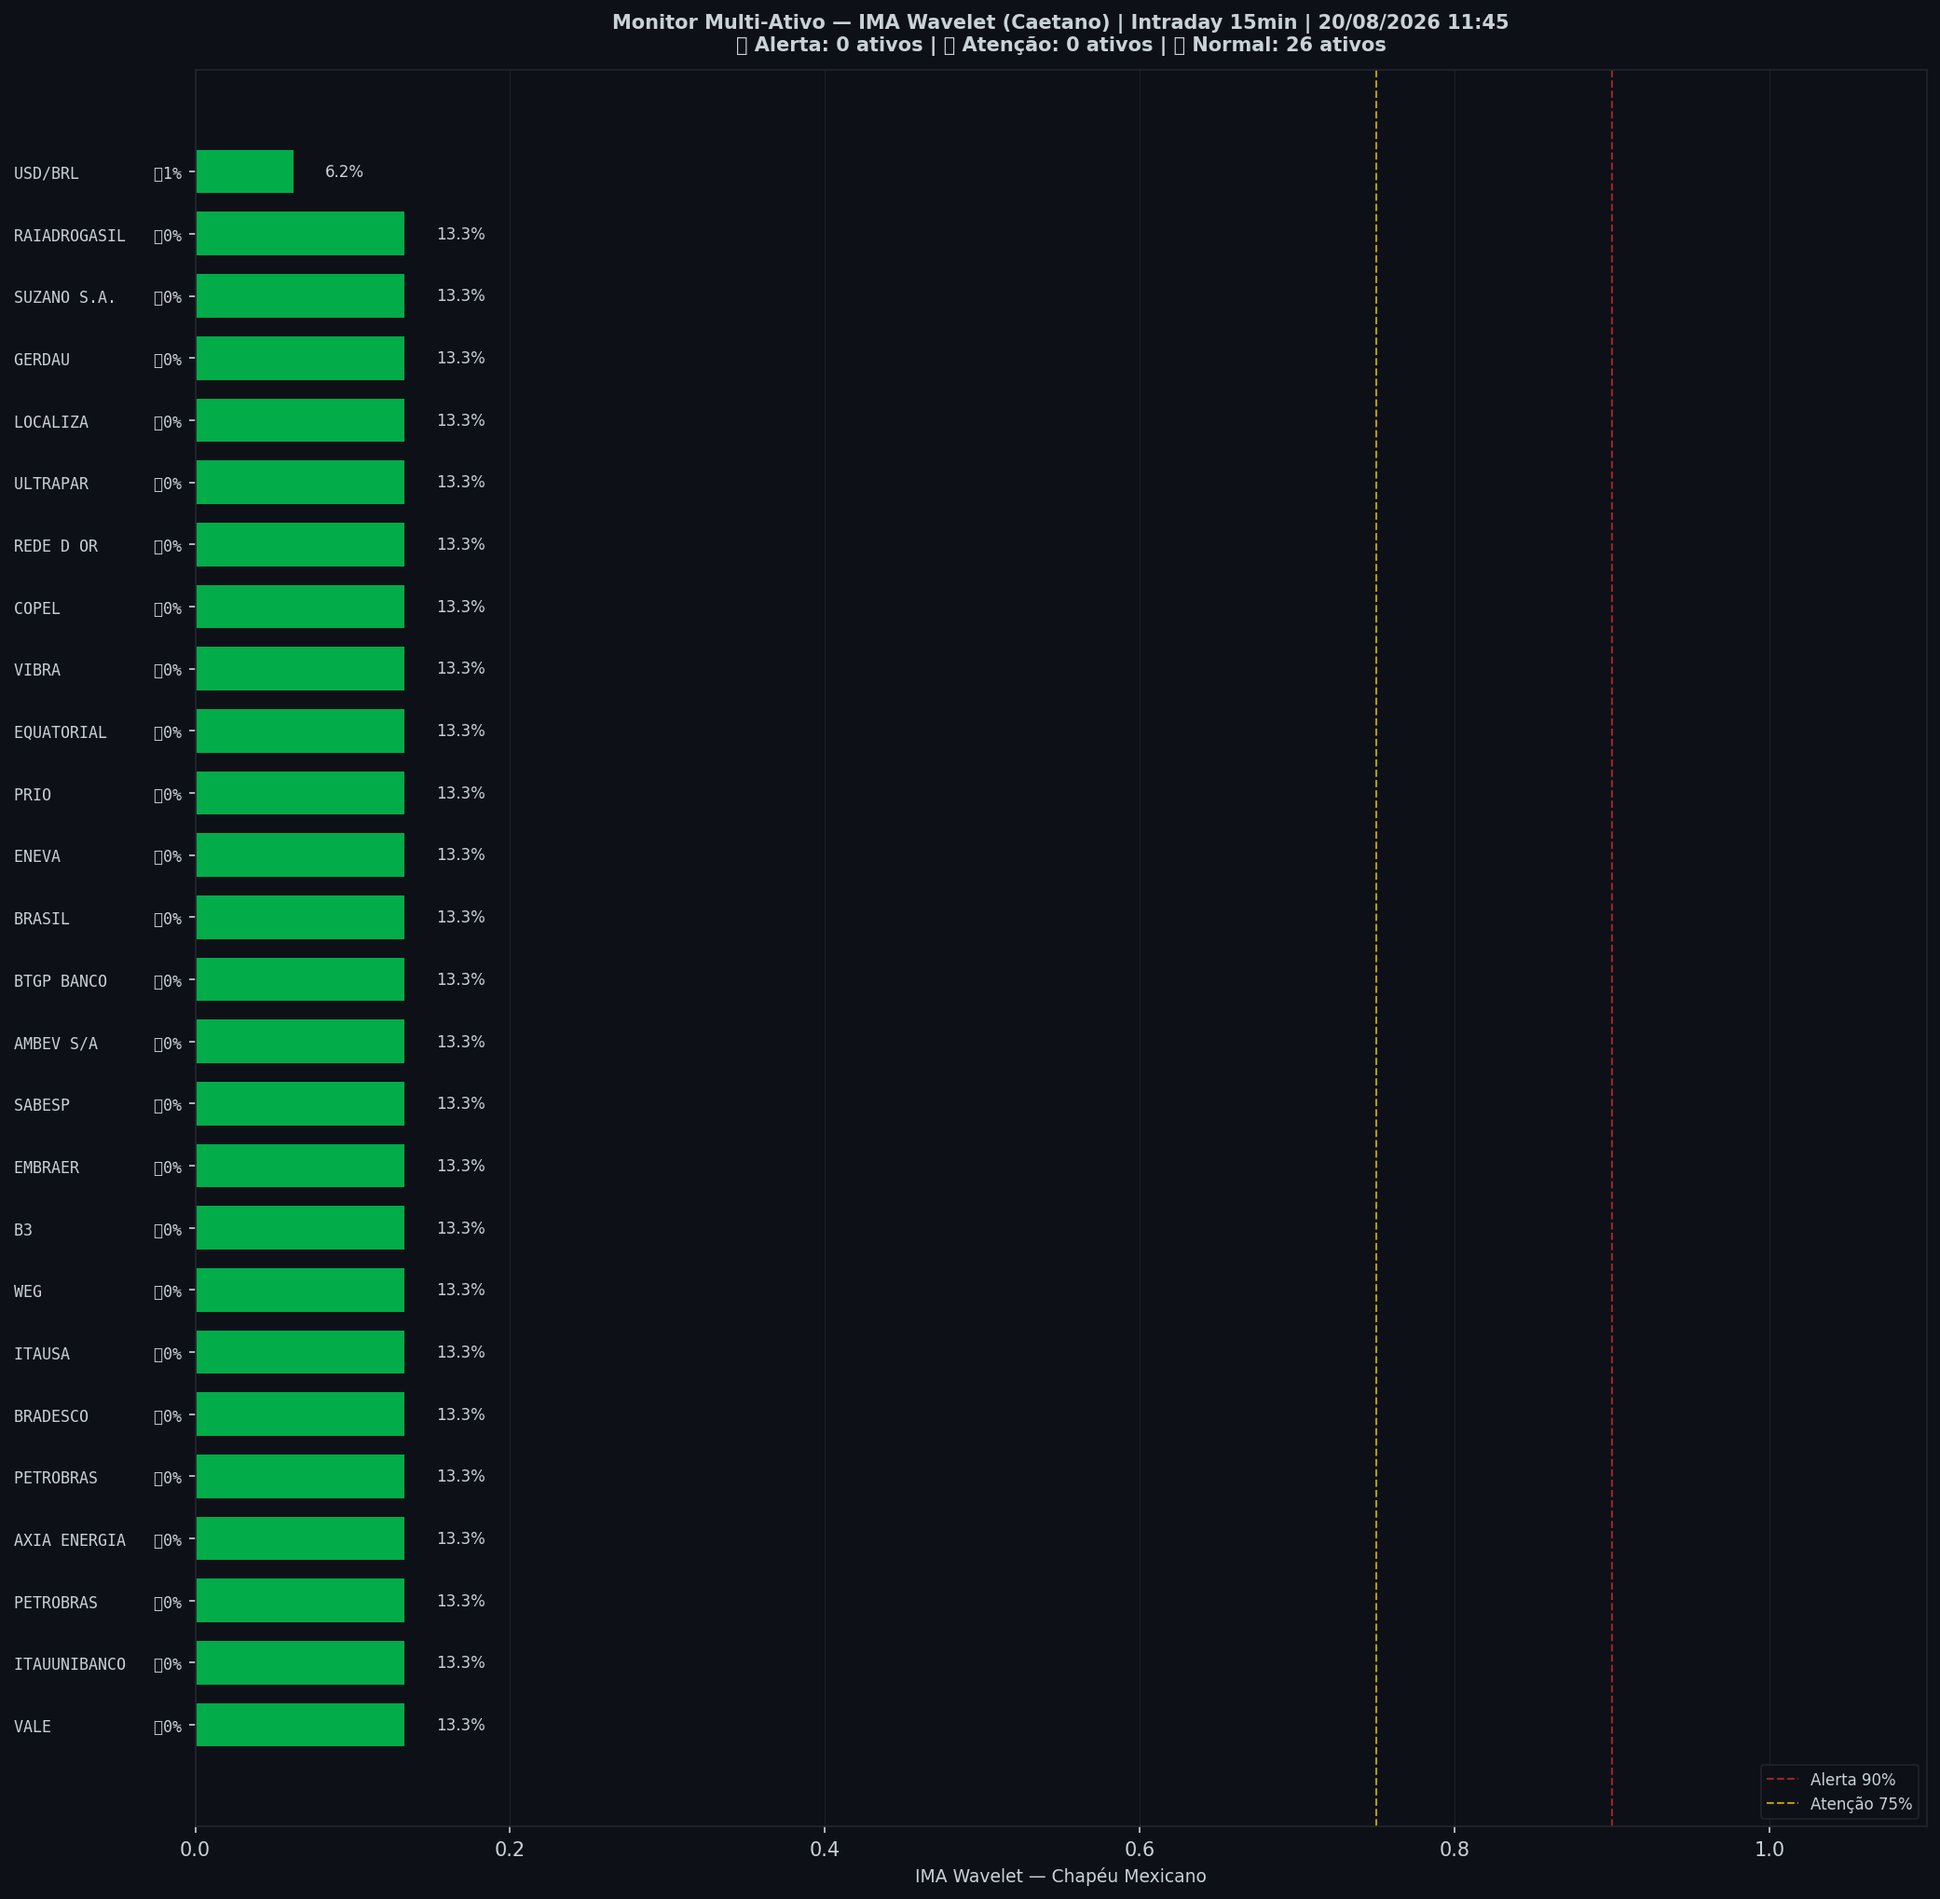
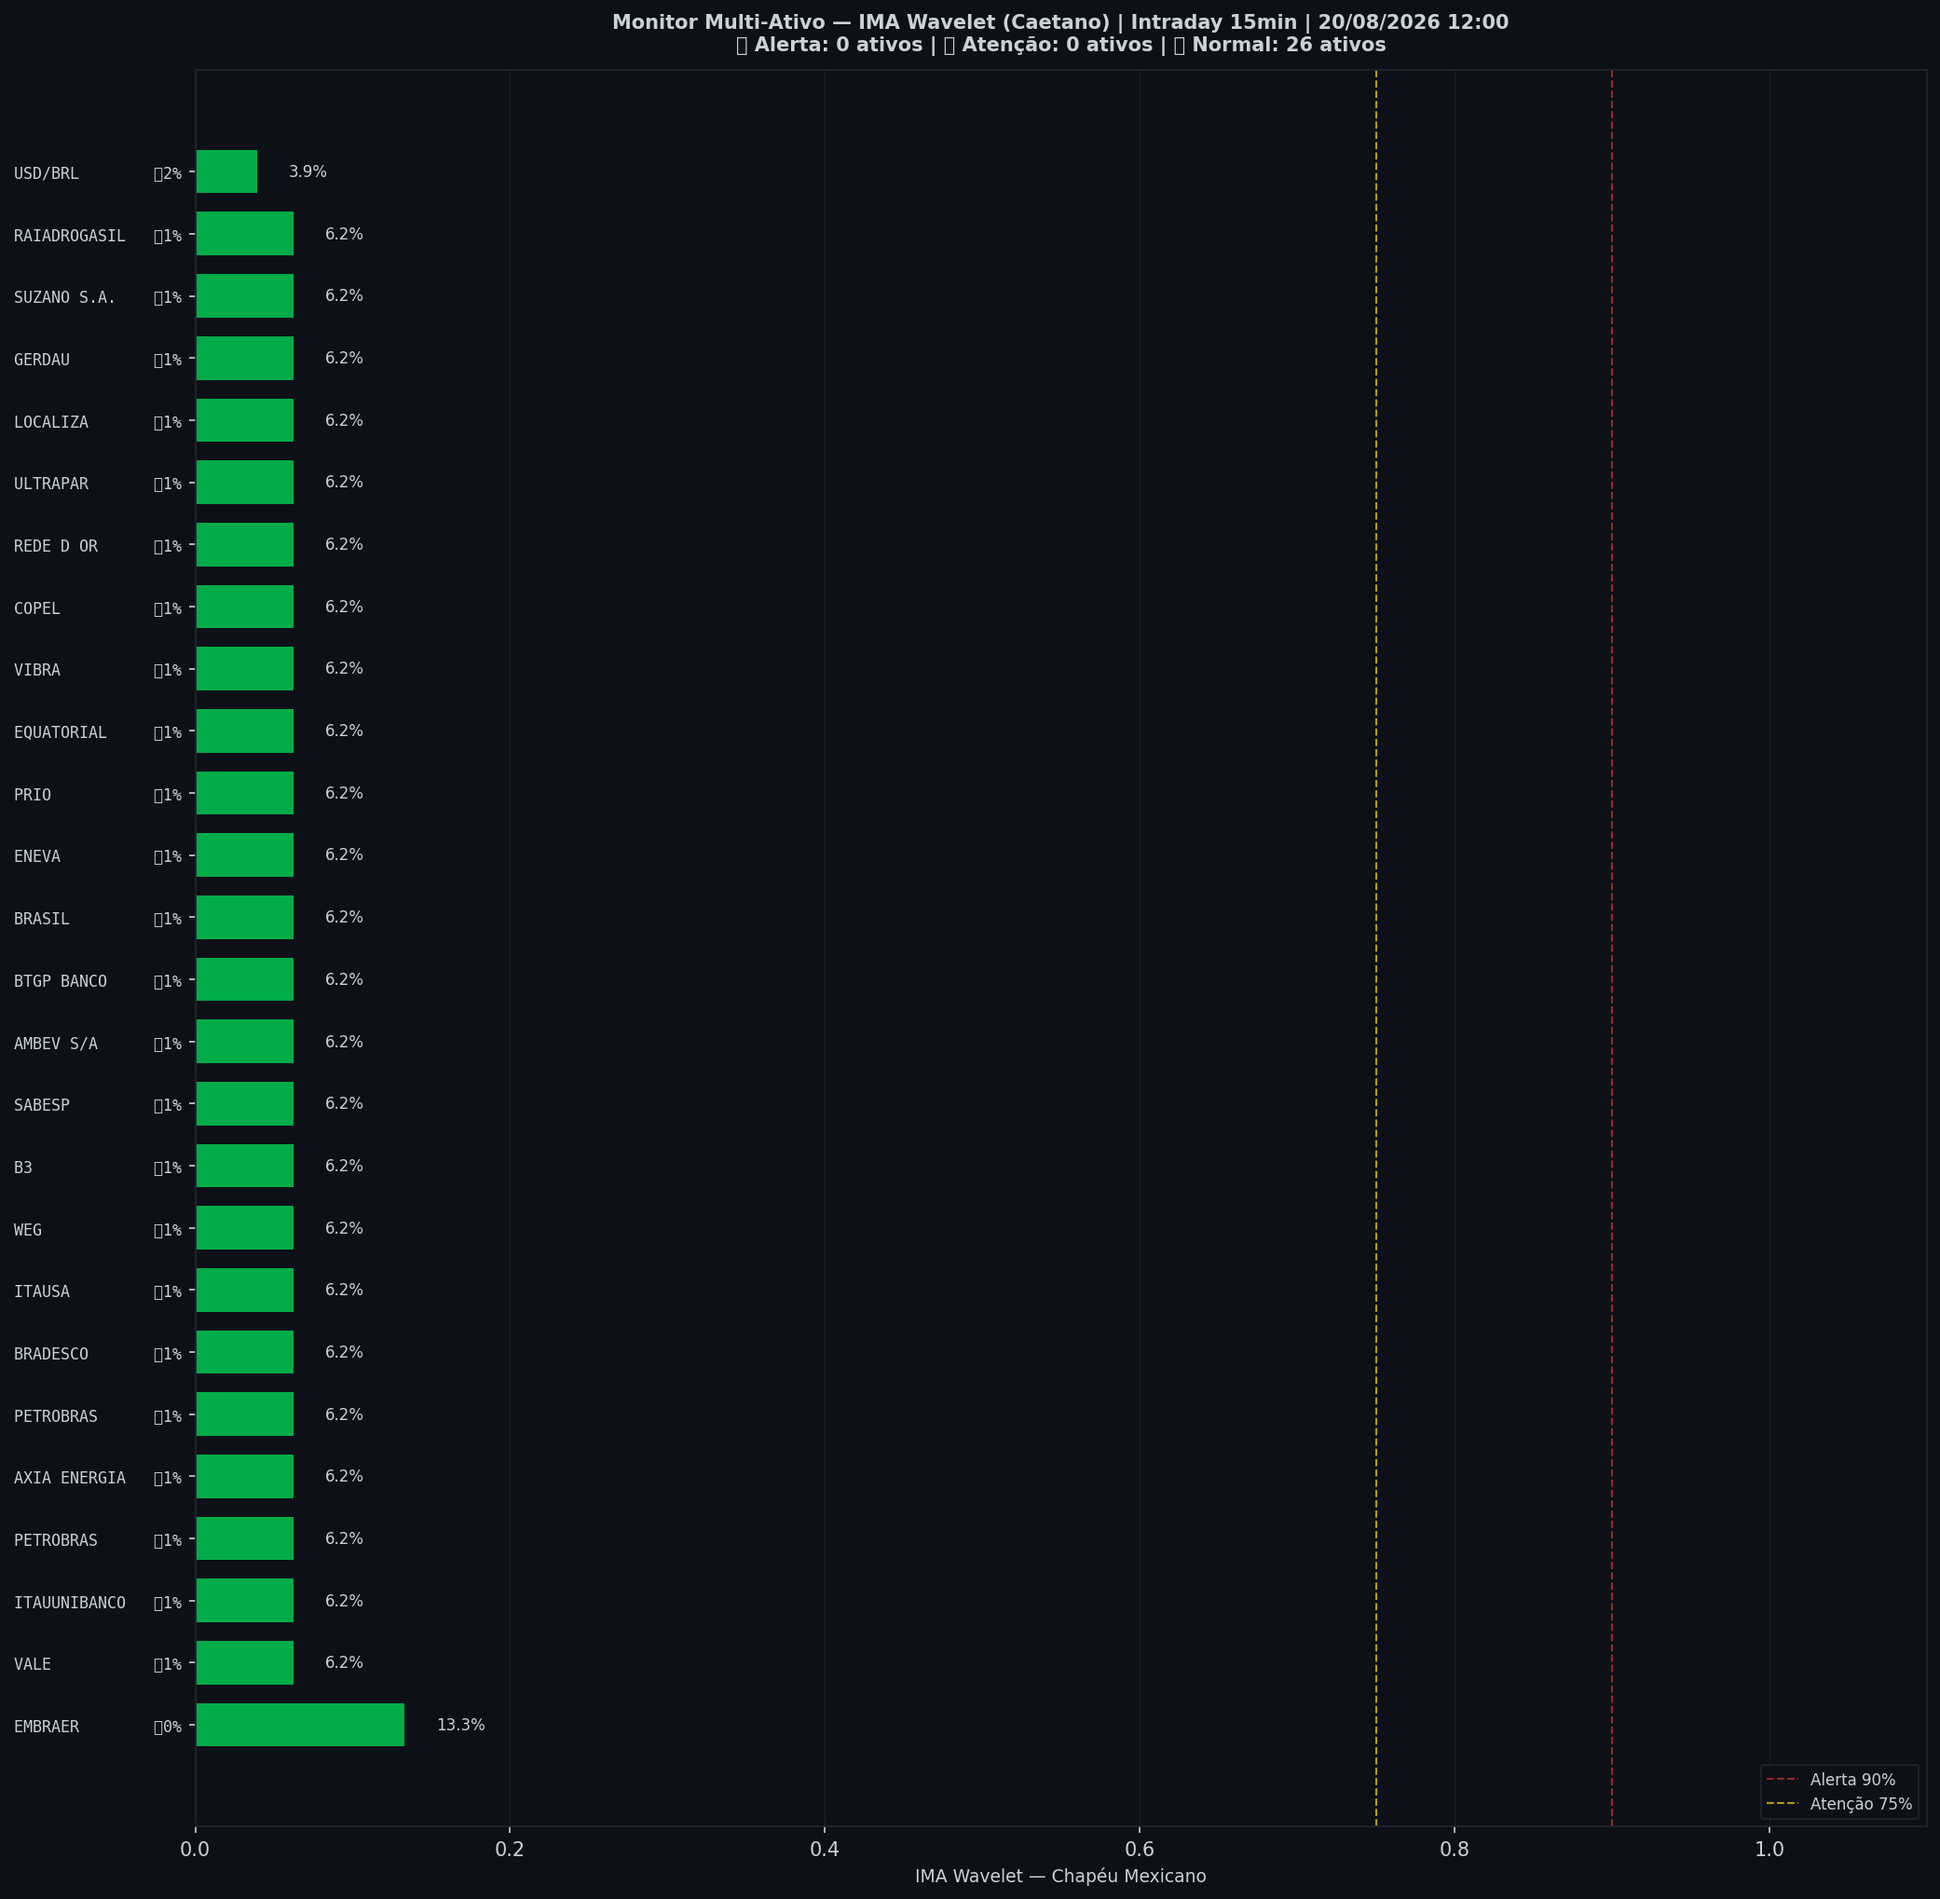
🤖 Auto: Sinal 20/08/2026 12:00

Changed region(s): [[0.1249, 0.0618, 0.2185, 0.8965], [0.0312, 0.7728, 0.0624, 0.8965]]

diff --git a/content/intraday/2026-08-20.md b/content/intraday/2026-08-20.md
@@ -1,20 +1,20 @@
 ---
-title: "🟢 Intraday 20/08/2026 11:00 BRT — VERDE"
+title: "🟢 Intraday 20/08/2026 11:15 BRT — VERDE"
 date: 2026-08-20
 tags: [intraday]
 ---
 
-> [!success] 🟢 **VERDE** — Risco 5% · ▲ +2 p.p. vs leitura anterior
+> [!success] 🟢 **VERDE** — Risco 6% · ▲ +2 p.p. vs leitura anterior
 > `█░░░░░░░░░░░░░░░░░░░`
 > Mercado sem sinais relevantes de estresse.
 
 
 | Indicador | Valor |
 |---|---|
-| 🔴 ζ Crash — severidade da queda em curso | **5%** |
-| 🔵 ζ Entrada — estrutura de fundo | 2% |
+| 🔴 ζ Crash — severidade da queda em curso | **6%** |
+| 🔵 ζ Entrada — estrutura de fundo | 0% |
 | 🫧 LPPL DS-Confidence | 0% |
-| 📊 Ibovespa | 168.139 pts |
+| 📊 Ibovespa | 168.256 pts |
 
 ![Gráfico do sinal](../graficos/sinal_intraday.png)
 
@@ -22,6 +22,7 @@ tags: [intraday]
 
 | Data | Zona | Risco | IMA Crash | Entrada | LPPL |
 |---|---|---|---|---|---|
+| 2026-08-20 11:15 | 🟢 VERDE | **6%** | 6% | 0% | 0% |
 | 2026-08-20 11:00 | 🟢 VERDE | **5%** | 5% | 2% | 0% |
 | 2026-08-20 10:45 | 🟢 VERDE | **2%** | 2% | 3% | 0% |
 | 2026-08-20 10:30 | 🟢 VERDE | **2%** | 2% | 3% | 0% |
@@ -51,7 +52,6 @@ tags: [intraday]
 | 2026-08-19 11:30 | 🟡 AMARELO | **73%** | 73% | 0% | 0% |
 | 2026-08-19 11:15 | 🟡 AMARELO | **66%** | 66% | 0% | 0% |
 | 2026-08-19 11:00 | 🟢 VERDE | **58%** | 58% | 0% | 0% |
-| 2026-08-19 10:45 | 🟢 VERDE | **51%** | 51% | 1% | 0% |
 
 ## Monitor Multi-Ativo
 
@@ -59,36 +59,36 @@ tags: [intraday]
 
 | Zona | Ativo | Setor | IMA Crash | IMA Entrada |
 |---|---|---|---|---|
-| 🟢 | **VALE** | Mineração | 13.3% | 0.0% |
-| 🟢 | **ITAUUNIBANCO** | Financeiro | 13.3% | 0.0% |
-| 🟢 | **PETROBRAS** | Petróleo | 13.3% | 0.0% |
-| 🟢 | **AXIA ENERGIA** | Energia | 13.3% | 0.0% |
-| 🟢 | **PETROBRAS** | Petróleo | 13.3% | 0.0% |
-| 🟢 | **BRADESCO** | Financeiro | 13.3% | 0.0% |
-| 🟢 | **ITAUSA** | Financeiro | 13.3% | 0.0% |
-| 🟢 | **WEG** | Industrial | 13.3% | 0.0% |
-| 🟢 | **B3** | Financeiro | 13.3% | 0.0% |
 | 🟢 | **EMBRAER** | Outros | 13.3% | 0.0% |
-| 🟢 | **SABESP** | Saneamento | 13.3% | 0.0% |
-| 🟢 | **AMBEV S/A** | Consumo | 13.3% | 0.0% |
-| 🟢 | **BTGP BANCO** | Financeiro | 13.3% | 0.0% |
-| 🟢 | **BRASIL** | Financeiro | 13.3% | 0.0% |
-| 🟢 | **ENEVA** | Energia | 13.3% | 0.0% |
-| 🟢 | **PRIO** | Petróleo | 13.3% | 0.0% |
-| 🟢 | **EQUATORIAL** | Energia | 13.3% | 0.0% |
-| 🟢 | **VIBRA** | Energia | 13.3% | 0.0% |
-| 🟢 | **COPEL** | Energia | 13.3% | 0.0% |
-| 🟢 | **REDE D OR** | Saúde | 13.3% | 0.0% |
-| 🟢 | **ULTRAPAR** | Outros | 13.3% | 0.0% |
-| 🟢 | **LOCALIZA** | Aluguel | 13.3% | 0.0% |
-| 🟢 | **GERDAU** | Siderurgia | 13.3% | 0.0% |
-| 🟢 | **SUZANO S.A.** | Papel/Celulose | 13.3% | 0.0% |
-| 🟢 | **RAIADROGASIL** | Outros | 13.3% | 0.0% |
-| 🟢 | **USD/BRL** | Câmbio | 6.2% | 0.8% |
+| 🟢 | **VALE** | Mineração | 6.2% | 0.8% |
+| 🟢 | **ITAUUNIBANCO** | Financeiro | 6.2% | 0.8% |
+| 🟢 | **PETROBRAS** | Petróleo | 6.2% | 0.8% |
+| 🟢 | **AXIA ENERGIA** | Energia | 6.2% | 0.8% |
+| 🟢 | **PETROBRAS** | Petróleo | 6.2% | 0.8% |
+| 🟢 | **BRADESCO** | Financeiro | 6.2% | 0.8% |
+| 🟢 | **ITAUSA** | Financeiro | 6.2% | 0.8% |
+| 🟢 | **WEG** | Industrial | 6.2% | 0.8% |
+| 🟢 | **B3** | Financeiro | 6.2% | 0.8% |
+| 🟢 | **SABESP** | Saneamento | 6.2% | 0.8% |
+| 🟢 | **AMBEV S/A** | Consumo | 6.2% | 0.8% |
+| 🟢 | **BTGP BANCO** | Financeiro | 6.2% | 0.8% |
+| 🟢 | **BRASIL** | Financeiro | 6.2% | 0.8% |
+| 🟢 | **ENEVA** | Energia | 6.2% | 0.8% |
+| 🟢 | **PRIO** | Petróleo | 6.2% | 0.8% |
+| 🟢 | **EQUATORIAL** | Energia | 6.2% | 0.8% |
+| 🟢 | **VIBRA** | Energia | 6.2% | 0.8% |
+| 🟢 | **COPEL** | Energia | 6.2% | 0.8% |
+| 🟢 | **REDE D OR** | Saúde | 6.2% | 0.8% |
+| 🟢 | **ULTRAPAR** | Outros | 6.2% | 0.8% |
+| 🟢 | **LOCALIZA** | Aluguel | 6.2% | 0.8% |
+| 🟢 | **GERDAU** | Siderurgia | 6.2% | 0.8% |
+| 🟢 | **SUZANO S.A.** | Papel/Celulose | 6.2% | 0.8% |
+| 🟢 | **RAIADROGASIL** | Outros | 6.2% | 0.8% |
+| 🟢 | **USD/BRL** | Câmbio | 3.9% | 2.3% |
 
 ![Monitor multi-ativo](../graficos/multi_intraday.png)
 
-*Página atualizada em 20/08/2026 11:45 BRT (leitura da barra de 2026-08-20 11:00 BRT).*
+*Página atualizada em 20/08/2026 12:00 BRT (leitura da barra de 2026-08-20 11:15 BRT).*
 
 > [!info]- Como interpretar (clique para expandir)
 > - **ζ Crash**: fração dos coeficientes wavelet acima do corte (Caetano & Yoneyama 2009). Escala absoluta: ζ=0,90 = 90% dos coeficientes anômalos — historicamente, quedas com ζ≥0,90 foram mais fundas e mais longas. **Mede a severidade do movimento em curso, não prevê o início da queda.**

diff --git a/content/index.md b/content/index.md
@@ -8,19 +8,19 @@ tags: [home]
 
 Monitoramento diário e intraday do Ibovespa — **IMA Wavelet** (Prof. Marco Antonio Leonel Caetano, ITA/INSPER) + **LPPL DS-Confidence** (Prof. Didier Sornette, ETH-Zurich).
 
-*Última atualização: 20/08/2026 11:45 BRT · ^BVSP · Intraday 15min · v4*
+*Última atualização: 20/08/2026 12:00 BRT · ^BVSP · Intraday 15min · v4*
 
-> [!success] 🟢 **VERDE** — Risco 5% · ▲ +2 p.p. vs leitura anterior
+> [!success] 🟢 **VERDE** — Risco 6% · ▲ +2 p.p. vs leitura anterior
 > `█░░░░░░░░░░░░░░░░░░░`
 > Mercado sem sinais relevantes de estresse.
 
 
 | Indicador | Valor |
 |---|---|
-| 🔴 ζ Crash — severidade da queda em curso | **5%** |
-| 🔵 ζ Entrada — estrutura de fundo | 2% |
+| 🔴 ζ Crash — severidade da queda em curso | **6%** |
+| 🔵 ζ Entrada — estrutura de fundo | 0% |
 | 🫧 LPPL DS-Confidence | 0% |
-| 📊 Ibovespa | 168.139 pts |
+| 📊 Ibovespa | 168.256 pts |
 
 **Multi-ativo:** 0% em tensão (0🔴 0🟡 de 26 ativos)
 
@@ -32,7 +32,7 @@ Monitoramento diário e intraday do Ibovespa — **IMA Wavelet** (Prof. Marco An
 
 | Data | Zona | Risco | IMA | LPPL |
 |---|---|---|---|---|
-| [20 Aug 2026](diario/2026-08-20) | 🟢 VERDE | **5%** | 5% | 0% |
+| [20 Aug 2026](diario/2026-08-20) | 🟢 VERDE | **6%** | 6% | 0% |
 | [19 Aug 2026](diario/2026-08-19) | 🟢 VERDE | **2%** | 2% | 0% |
 
 ## Navegação

diff --git a/content/historico.md b/content/historico.md
@@ -7,6 +7,7 @@ tags: [historico]
 
 | Data | Modo | Zona | Risco | IMA | LPPL |
 |---|---|---|---|---|---|
+| 2026-08-20 11:15 | intraday | 🟢 VERDE | 6% | 6% | 0% |
 | 2026-08-20 11:00 | intraday | 🟢 VERDE | 5% | 5% | 0% |
 | 2026-08-20 10:45 | intraday | 🟢 VERDE | 2% | 2% | 0% |
 | 2026-08-20 10:30 | intraday | 🟢 VERDE | 2% | 2% | 0% |
